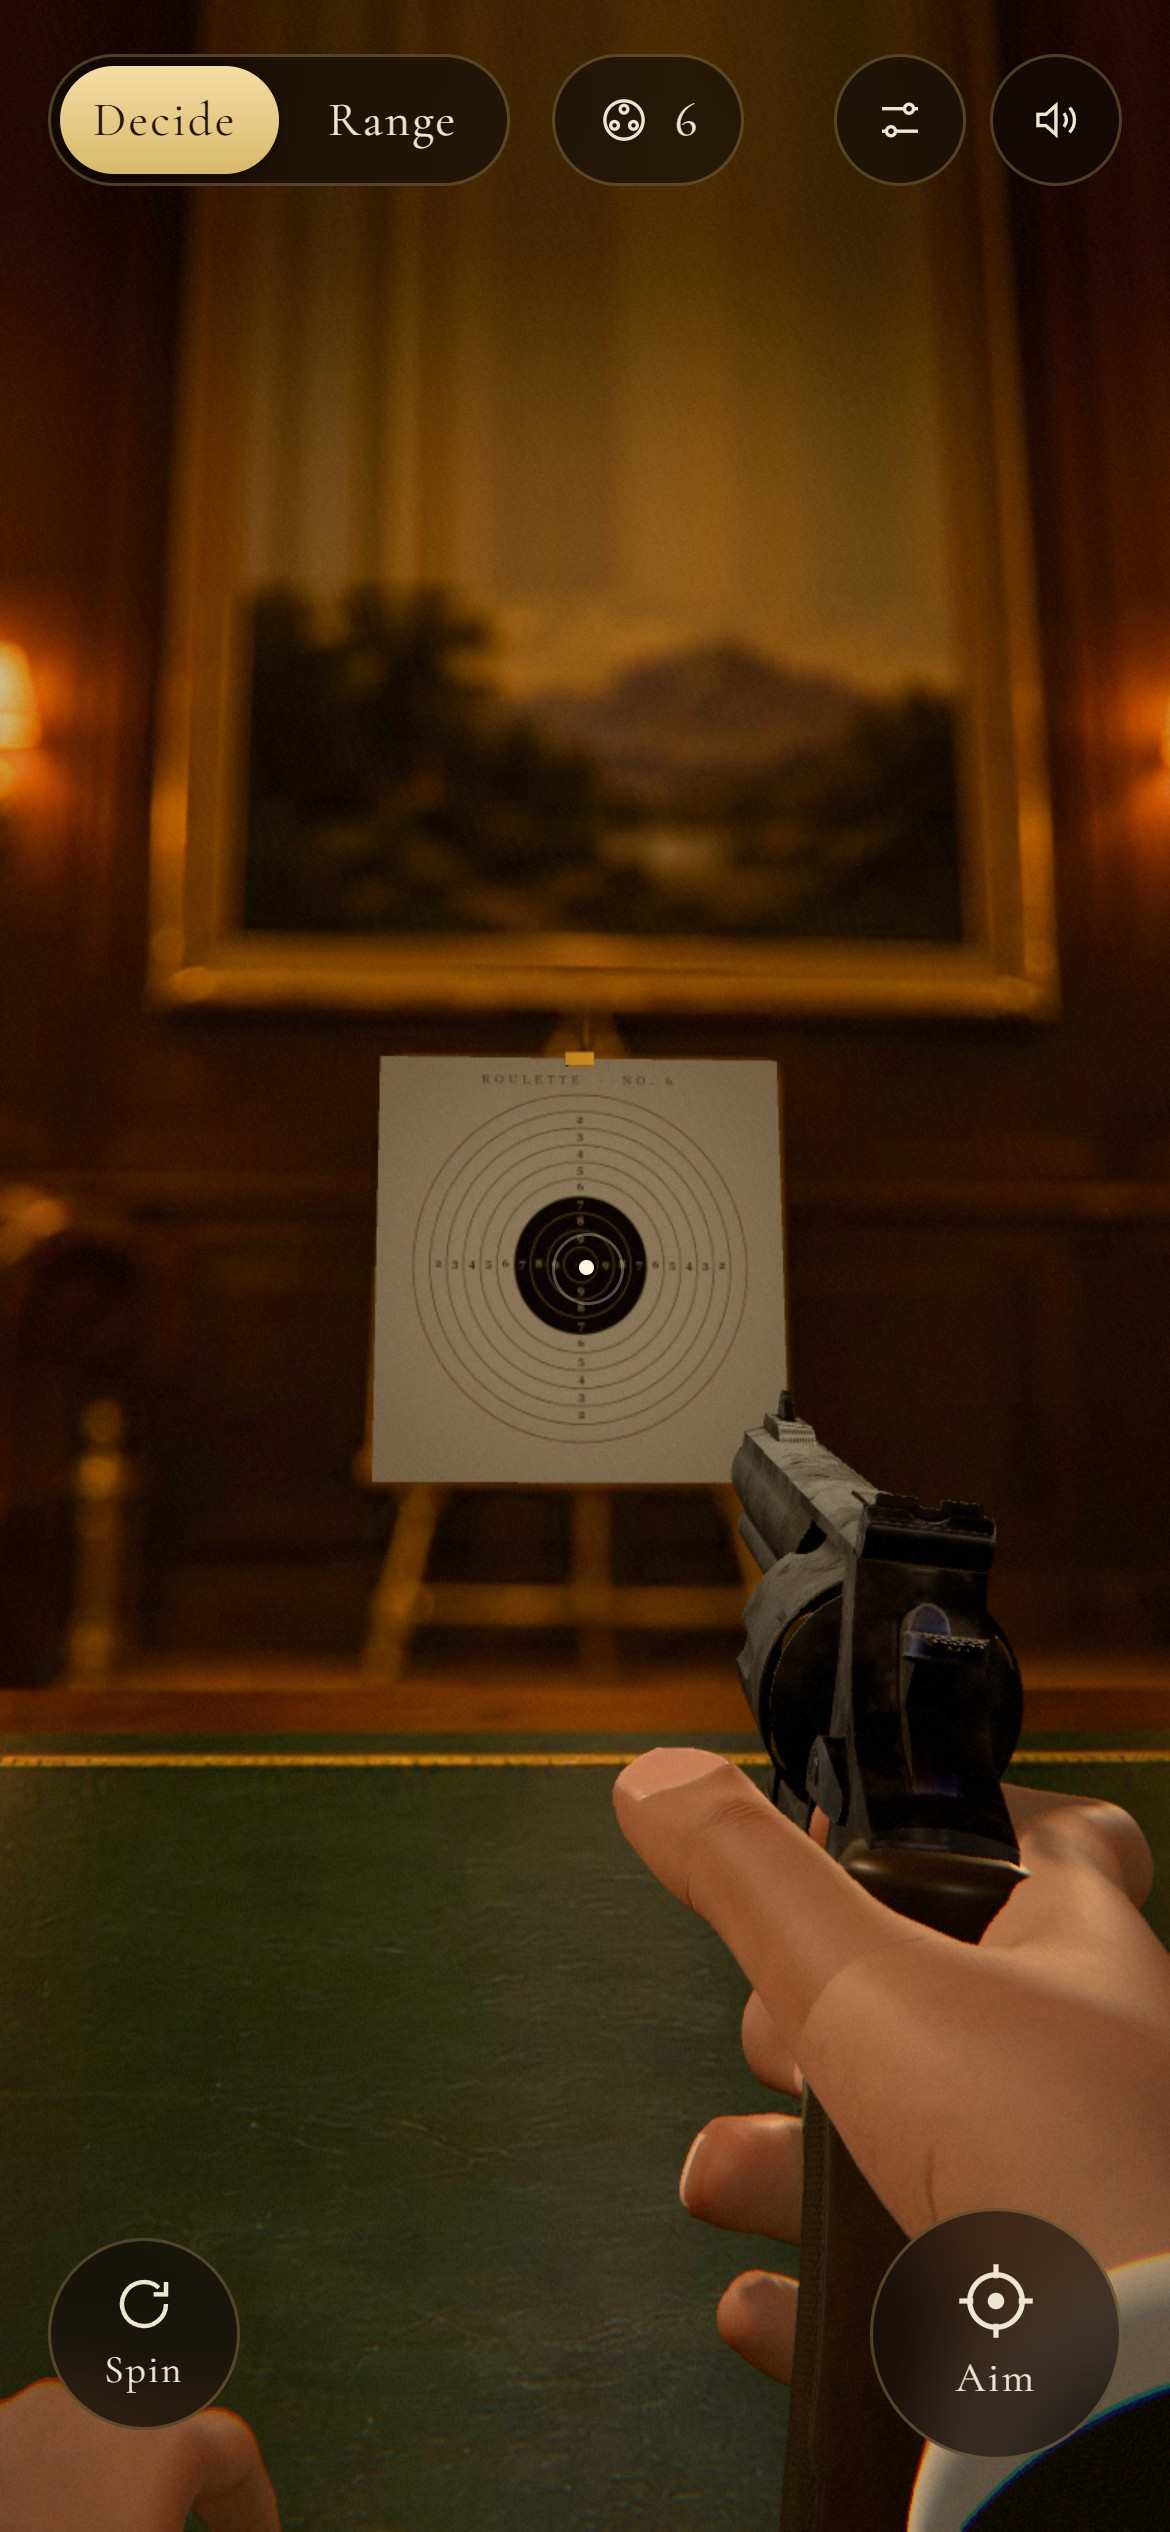
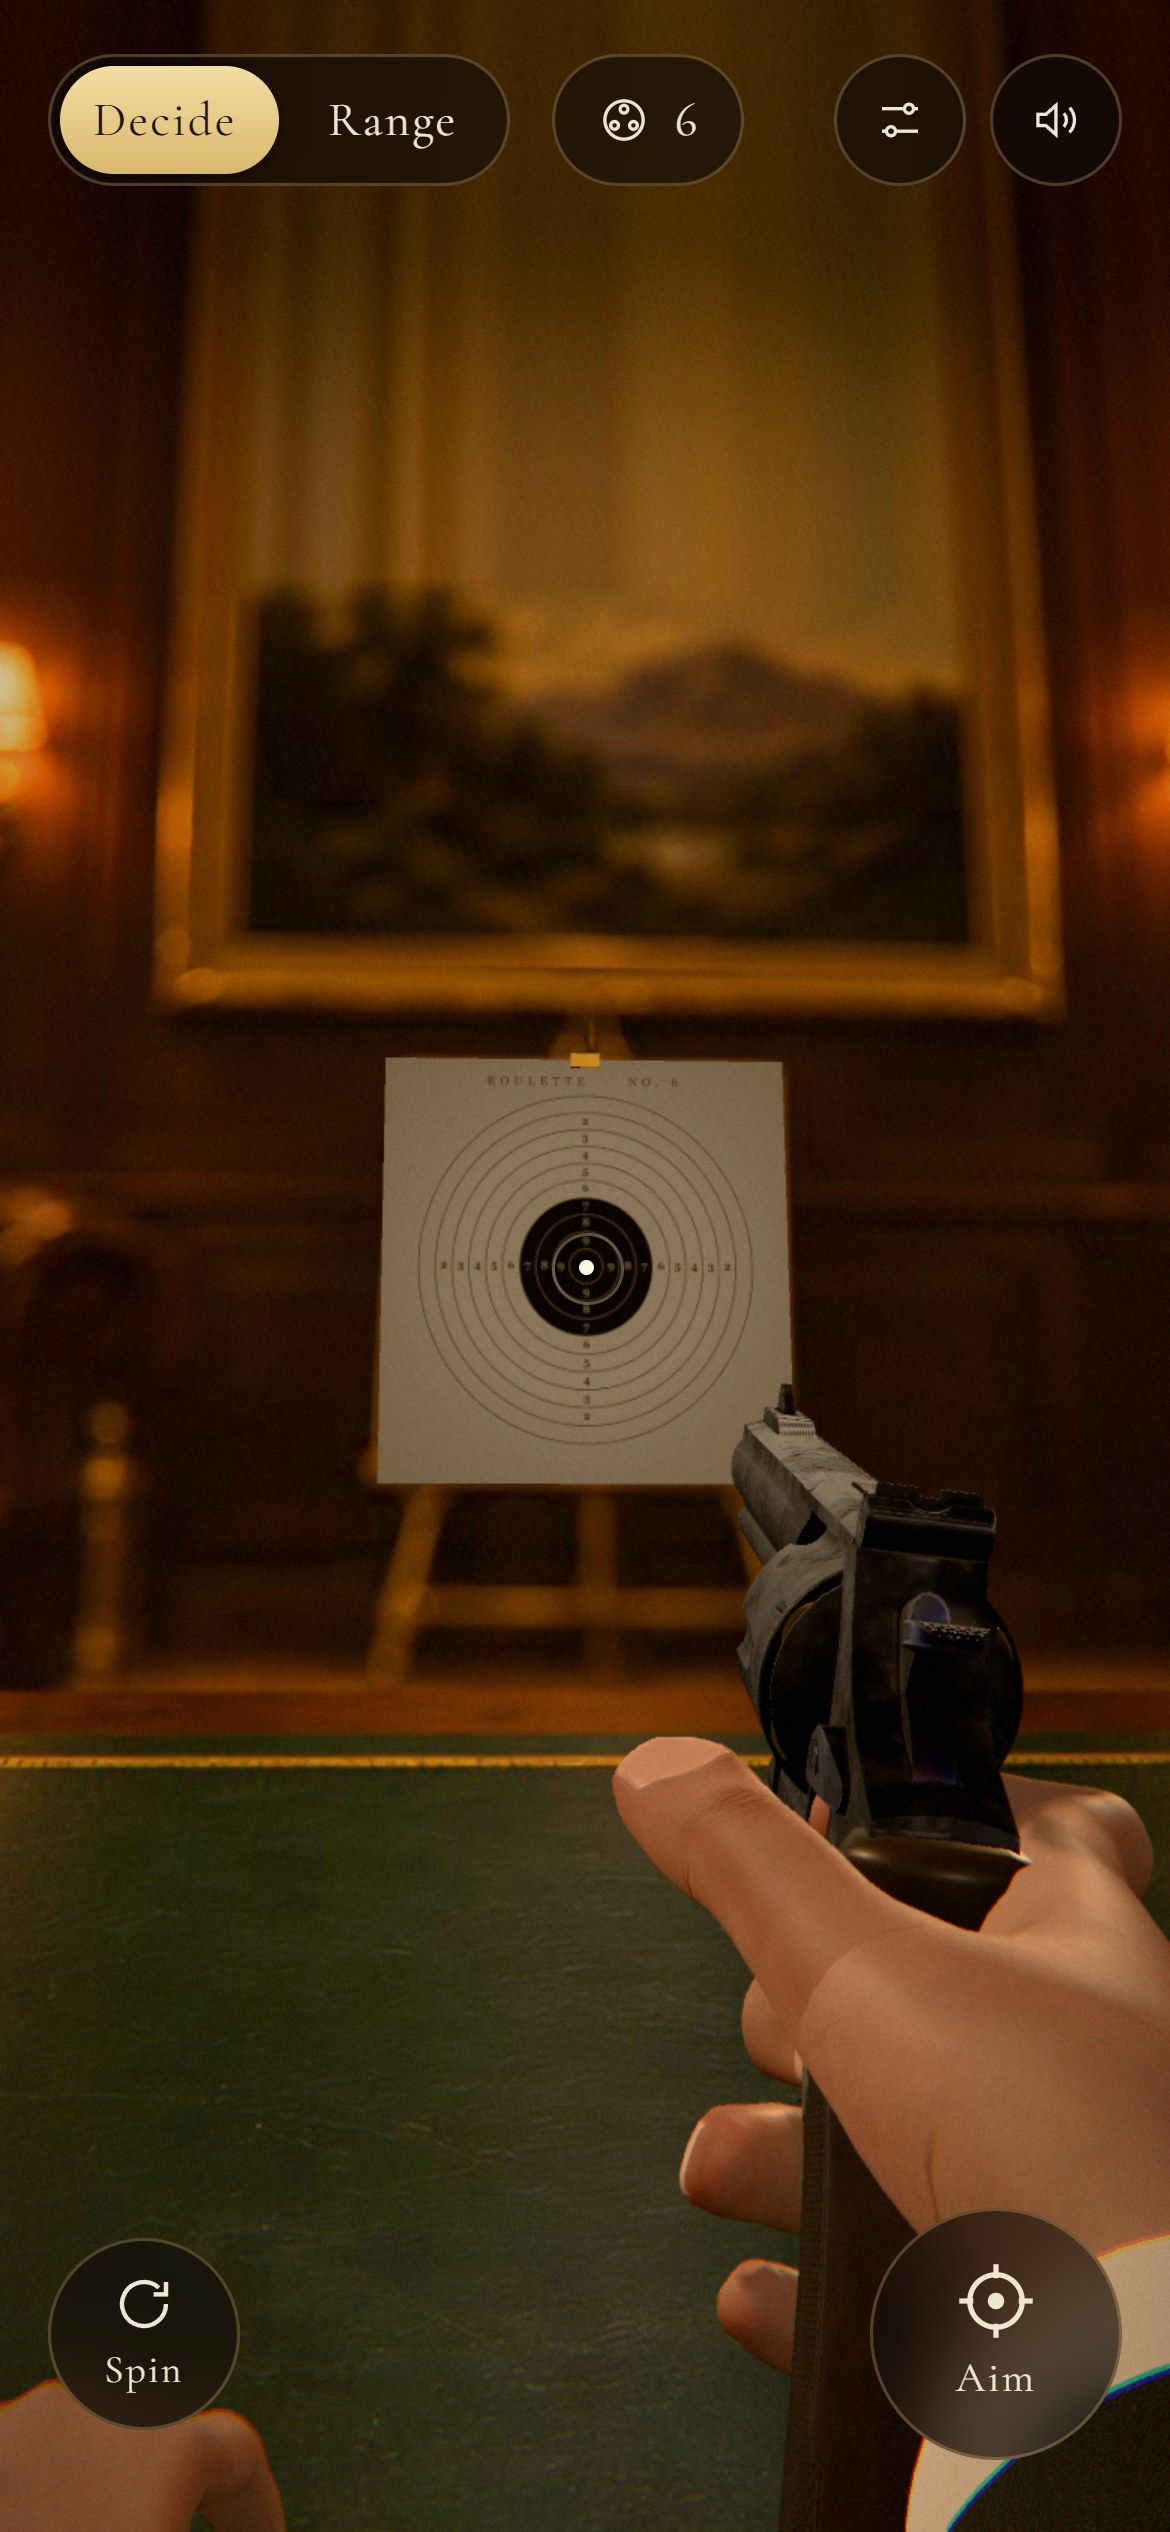
Docs: sleeve round 2 (support arm, self-shadow fix, lining, area numbers) and retaken stills

diff --git a/docs/HANDS-REAL.md b/docs/HANDS-REAL.md
@@ -59,10 +59,24 @@ sleeve as a tailored oval tube.
   hand's own axis (70/30), and the cuff turns up to 8 degrees further toward the hand on a pivot at the hem.
 - The watch moved onto the back of the left wrist just past the cuff (the cuff on that hand stops 9 mm higher);
   the strap is fitted to the wrist.
-- At aim the right forearm drops more steeply (`js/main.js` ADS elbow offset, `js/range.js` `FORE_ADS`). The Range
-  support forearm (`SUP.elbow` = -0.7, -0.7, -0.35 in camera space) comes up from the lower left corner instead of
-  lying across the screen at gun height; steeper or nearer elbows covered more of the screen, and further-forward ones
-  showed the inside of the hem at the wrist.
+- At aim the right forearm drops more steeply (`js/main.js` ADS elbow offset, `js/range.js` `FORE_ADS`).
+- Range support arm (sleeve round 2): the support hand is canted into a thumbs-forward grip (`SUP.finger` = 0.302,
+  0.302, -0.905 in gun space: fingers up and forward around the shooting hand, the wrist below them), so its forearm
+  continues down and back toward the shooter (`SUP.elbow` = -0.22, -1, 0.3 in camera space) and enters across the
+  bottom edge, converging on the pistol with the right arm. Before, the hand pointed its wrist to the left, so every
+  elbow either lay across the screen at gun height (the "black box") or bent the wrist open.
+- The sleeve can end at the elbow: `aimSleeve(elbow, maxLen)` cuts the tube with a world-space clipping plane square
+  to the forearm (shadows clipped too; `renderer.localClippingEnabled` in `js/main.js`). The Range support sleeve ends
+  0.27 m up the arm at aim (`SUP.len`), so a forearm pointing back toward the eye never runs its 0.72 m tube past the
+  lens; it blends back to the full tube for the rest and the magazine reach.
+- Why the Range sleeves were black: the tube was wound inside out (outside = back faces), so its normals pointed in
+  and the shadow lookup's normal bias pushed every sample into the tube: the sleeves shadowed themselves wherever the
+  key light reached them. The tube is now wound outward; both modes get their lamp light back (Decide sleeves and
+  cuffs are a touch brighter, the weave reads more).
+- Inside, past the turned-up facing, the jacket is lined: a smooth satin a shade darker and warmer than the cloth,
+  with flatter normals and lower roughness, so a look into the hem shows a lining.
+- `lift` (Range jacket: 0.5): a soft overhead fill on the top of the forearm plus a little grazing rim, through the
+  weave normals, so the dark range cloth keeps its form under the lane lamps. Decide uses 0.
 
 Share of a 390 x 844 phone screen covered by sleeve plus cuff (rendered alone, white on black):
 
@@ -71,7 +85,17 @@ Share of a 390 x 844 phone screen covered by sleeve plus cuff (rendered alone, w
 | Decide hip | 2.4 % | 1.8 % |
 | Decide ADS | 16.9 % | 13.4 % |
 | Range hip | 4.4 % | 3.8 % |
-| Range ADS | 19.0 % | 14.9 % (left 5.7, right 9.2); polish round, support arm from the lower left: 15.1 % (left 6.0) |
+| Range ADS | 19.0 % | 14.9 % (left 5.7, right 9.2); polish round: 15.1 % (left 6.0, across the left edge from 64 % of the height down); sleeve round 2: 18.9 % (left 9.7, right 9.1, left edge only below 89 %) |
+
+Measured with only the sleeve and cuff meshes drawn in white over black from the game camera (`renderer.render`,
+fog and background off), pixels above half grey, after `dbg.setAds(true)` plus 1.5 s; Decide hip and ADS measure
+2.0 % and 13.5 % this way, unchanged by round 2.
+
+Round 2 trades area for shape: a support forearm that enters across the bottom edge has to cross 37 % of the screen
+height from the wrist instead of 29 % of its width, at the same 75 mm sleeve width 0.55 m from the eye. Every bottom
+route measured 8 to 15 % for the left sleeve alone (a slimmer tube, 15 % narrower at the elbow end, saved 0.1 %;
+scaling the whole sleeve to 85 % saved 1.3 % but let the wrist show through the cuff), so the 4 % / 12 % goal is not
+reachable at this hand distance and phone field of view without moving the hands or the gun.
 
 ## Maps
 
@@ -132,7 +156,7 @@ scripts kept outside the repo) on `index.html?nosw&debug` with `dbg.noGovernor =
 390 x 844 at DPR 3 (`phone-*`, 1170 x 2532), desktop 1440 x 900 at DPR 1 (`desk-*`). ADS is `dbg.setAds(true)` plus
 1.5 s, open is `dbg.toggleCylinder()` plus 1.8 s, the skins are `setSkin()` on both hands with the cylinder open,
 fire is taken 45 ms after `P.trig` reaches 1, Range is `dbg.setMode('range', true)`, reload is 0.7 s after
-`dbg.R.reload()`. Crops from the phone stills: `crop-hip-hand` 870 px at (300, 1600) of hip, `crop-ads` 920 px at
+`dbg.R.reload()`, Range ADS fire is 45 ms after `dbg.R.fire()` at aim. Crops from the phone stills: `crop-hip-hand` 870 px at (300, 1600) of hip, `crop-ads` 920 px at
 (250, 1450) of ADS, `crop-open-thumb` 900 px at (270, 1500) of open. Customize tiles (`assets/ui/hand-*.webp`, 300 px):
 600 x 600 at DPR 1, UI hidden, `dbg.view = { from: [0.27, 0.04, 0], at: <right wrist in vm space> + (0, 0.004,
 -0.078), fov: 24 }`, scaled down.
@@ -152,5 +176,5 @@ fire is taken 45 ms after `P.trig` reaches 1, Range is `dbg.setMode('range', tru
 - The skin "scattering" is wrapped lighting, not subsurface transport; thin parts never glow red against a lamp.
 - The glove is the hand shape in leather: no fullness at the fingertips, no wrinkles that follow a grip.
 - The sleeve is a rigid tube between the cuff and the elbow line; it does not bunch at the elbow or sag.
-- The Range support sleeve still takes about 6 % of a phone screen at aim: the forearm is close to the eye in a
-  two-handed hold, and every elbow that covered less of the screen either lay across it at gun height or opened the hem.
+- The Range sleeves take about 19 % of a phone screen at aim (support 9.7 %): two forearms at arm's length in a
+  portrait phone view. Less needs the hands further from the eye or a wider field of view, which changes the sights.
